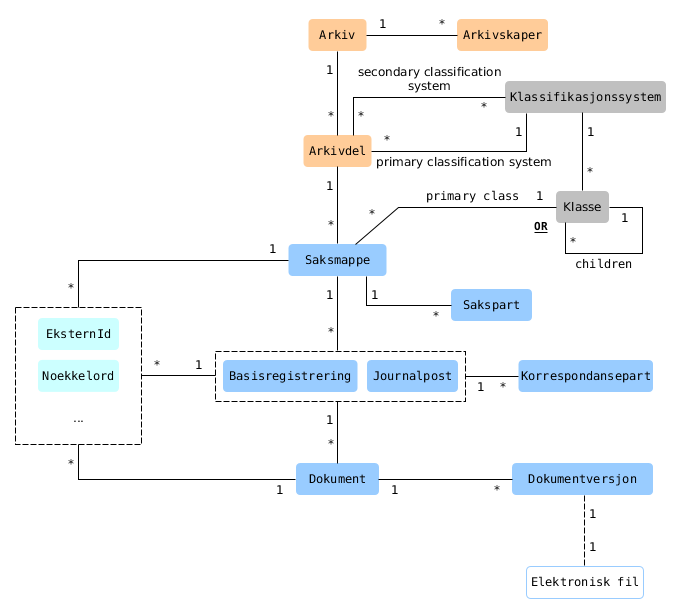
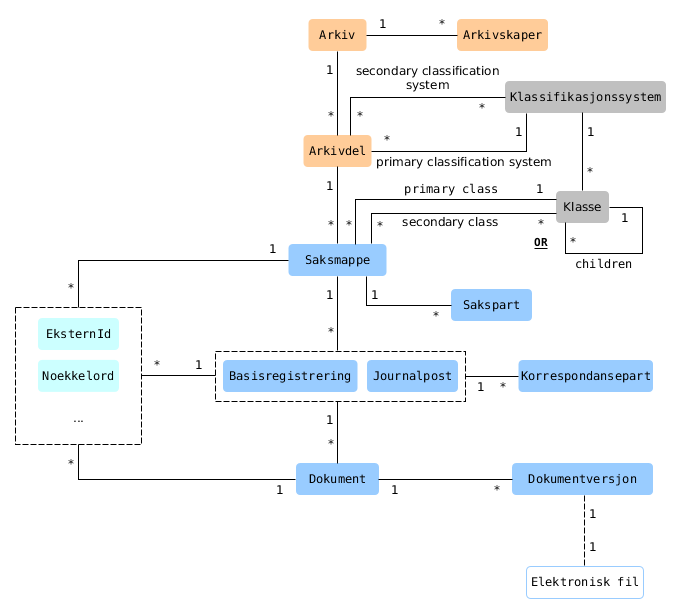
Add support for secondary classes
Rename:
- references to Klasse in Mappe, Saksmappe, Basisregistrering and
Journalpost
- references to Mappe/Saksmappe and Basisregistrering/Journalpost
in Klasse
so that the references denote primary classes (Klasse)

Add references to support secondary classes (Klasse).

Update archive model diagrams.

Changed region(s): [[0.4927, 0.2785, 0.8006, 0.4023], [0.5235, 0.0928, 0.739, 0.1547]]

diff --git a/src/02 - Object types.md b/src/02 - Object types.md
@@ -125,28 +125,30 @@ The following notation is used in the tables below:
 
 ### Klasse
 
-| ID   | Type   | Field                    | Not null | Has default | Code list |  | Save | View | Query | Sort | Link / Unlink | Comment 1                                                                                                                                 | Comment 2                                                                   |
-|:-----|:-------|:-------------------------|:--------:|:-----------:|:---------:|:-|:----:|:----:|:-----:|:----:|:-------------:|:------------------------------------------------------------------------------------------------------------------------------------------|:----------------------------------------------------------------------------|
-|      | string | id                       |    x     |      x      |           |  |  sm  |  x   |   x   |  x   |               |                                                                                                                                           |                                                                             |
-|      | string | version                  |    x     |      x      |           |  |  sm  |  x   |   x   |      |               |                                                                                                                                           |                                                                             |
-|      |        |                          |          |             |           |  |      |      |       |      |               |                                                                                                                                           |                                                                             |
-| M001 | string | uuid                     |    x     |      x      |           |  |  cw  |  x   |   x   |      |               |                                                                                                                                           |                                                                             |
-| M600 | date   | opprettetDato            |    x     |      x      |           |  |  cw  |  x   |   x   |  x   |               |                                                                                                                                           |                                                                             |
-| M601 | string | opprettetAv              |    x     |      x      |           |  |  cw  |  x   |   x   |  x   |               |                                                                                                                                           |                                                                             |
-| M601 | string | opprettetAvBrukerIdent   |    x     |      x      |           |  |  cw  |  x   |   x   |  x   |               |                                                                                                                                           |                                                                             |
-| M602 | date   | avsluttetDato            |          |             |           |  |  cw  |  x   |   x   |  x   |               |                                                                                                                                           |                                                                             |
-| M603 | string | avsluttetAv              |          |             |           |  |  cw  |  x   |   x   |  x   |               |                                                                                                                                           |                                                                             |
-| M603 | string | avsluttetAvBrukerIdent   |          |             |           |  |  cw  |  x   |   x   |  x   |               |                                                                                                                                           |                                                                             |
-| M002 | string | klasseIdent              |    x     |             |           |  |  x   |  x   |   x   |  x   |               |                                                                                                                                           |                                                                             |
-| M020 | string | tittel                   |    x     |             |           |  |  x   |  x   |   x   |  x   |               |                                                                                                                                           |                                                                             |
-| M021 | string | beskrivelse              |          |             |           |  |  x   |  x   |   x   |  x   |               |                                                                                                                                           |                                                                             |
-| M500 | string | skjerming                |          |             |     x     |  |  x   |  x   |   x   |  x   |               | <p>&bull; code list in Documaster</p>                                                                                                     |                                                                             |
-|      |        |                          |          |             |           |  |      |      |       |      |               |                                                                                                                                           |                                                                             |
-|      | ref    | refKlassifikasjonssystem |    x     |             |           |  |      |  x   |   x   |      |       x       |                                                                                                                                           |                                                                             |
-|      | ref    | refForelderKlasse        |          |             |           |  |      |  x   |   x   |      |       x       |                                                                                                                                           |                                                                             |
-|      | ref    | refBarnKlasse            |          |             |           |  |      |      |   x   |      |       x       |                                                                                                                                           |                                                                             |
-|      | ref    | refMappe                 |          |             |           |  |      |      |   x   |      |       x       | <p>&bull; references **Mappe** or **Saksmappe**</p> <p>&bull; may not be supported by all systems or partially supported</p>              | <p>&bull; **refBarnKlasse** cannot be set if **refMappe** is set</p>        |
-|      | ref    | refRegistrering          |          |             |           |  |      |      |   x   |      |       x       | <p>&bull; references **Basisregistrering** or **Journalpost**</p><p>&bull; may not be supported by all systems or partially supported</p> | <p>&bull; **refBarnKlasse** cannot be set if **refRegistrering** is set</p> |
+| ID   | Type   | Field                       | Not null | Has default | Code list |  | Save | View | Query | Sort | Link / Unlink | Comment 1                                                                                                                                                           | Comment 2                                                                                 |
+|:-----|:-------|:----------------------------|:--------:|:-----------:|:---------:|:-|:----:|:----:|:-----:|:----:|:-------------:|:--------------------------------------------------------------------------------------------------------------------------------------------------------------------|:------------------------------------------------------------------------------------------|
+|      | string | id                          |    x     |      x      |           |  |  sm  |  x   |   x   |  x   |               |                                                                                                                                                                     |                                                                                           |
+|      | string | version                     |    x     |      x      |           |  |  sm  |  x   |   x   |      |               |                                                                                                                                                                     |                                                                                           |
+|      |        |                             |          |             |           |  |      |      |       |      |               |                                                                                                                                                                     |                                                                                           |
+| M001 | string | uuid                        |    x     |      x      |           |  |  cw  |  x   |   x   |      |               |                                                                                                                                                                     |                                                                                           |
+| M600 | date   | opprettetDato               |    x     |      x      |           |  |  cw  |  x   |   x   |  x   |               |                                                                                                                                                                     |                                                                                           |
+| M601 | string | opprettetAv                 |    x     |      x      |           |  |  cw  |  x   |   x   |  x   |               |                                                                                                                                                                     |                                                                                           |
+| M601 | string | opprettetAvBrukerIdent      |    x     |      x      |           |  |  cw  |  x   |   x   |  x   |               |                                                                                                                                                                     |                                                                                           |
+| M602 | date   | avsluttetDato               |          |             |           |  |  cw  |  x   |   x   |  x   |               |                                                                                                                                                                     |                                                                                           |
+| M603 | string | avsluttetAv                 |          |             |           |  |  cw  |  x   |   x   |  x   |               |                                                                                                                                                                     |                                                                                           |
+| M603 | string | avsluttetAvBrukerIdent      |          |             |           |  |  cw  |  x   |   x   |  x   |               |                                                                                                                                                                     |                                                                                           |
+| M002 | string | klasseIdent                 |    x     |             |           |  |  x   |  x   |   x   |  x   |               |                                                                                                                                                                     |                                                                                           |
+| M020 | string | tittel                      |    x     |             |           |  |  x   |  x   |   x   |  x   |               |                                                                                                                                                                     |                                                                                           |
+| M021 | string | beskrivelse                 |          |             |           |  |  x   |  x   |   x   |  x   |               |                                                                                                                                                                     |                                                                                           |
+| M500 | string | skjerming                   |          |             |     x     |  |  x   |  x   |   x   |  x   |               | <p>&bull; code list in Documaster</p>                                                                                                                               |                                                                                           |
+|      |        |                             |          |             |           |  |      |      |       |      |               |                                                                                                                                                                     |                                                                                           |
+|      | ref    | refKlassifikasjonssystem    |    x     |             |           |  |      |  x   |   x   |      |       x       |                                                                                                                                                                     |                                                                                           |
+|      | ref    | refForelderKlasse           |          |             |           |  |      |  x   |   x   |      |       x       |                                                                                                                                                                     |                                                                                           |
+|      | ref    | refBarnKlasse               |          |             |           |  |      |      |   x   |      |       x       |                                                                                                                                                                     |                                                                                           |
+|      | ref    | refMappeSomPrimaer          |          |             |           |  |      |      |   x   |      |       x       | <p>&bull; references **Mappe** or **Saksmappe** as a primary **Klasse**</p> <p>&bull; may not be supported by all systems or partially supported</p>                | <p>&bull; **refBarnKlasse** cannot be set if **refMappeSomPrimaer** is set</p>            |
+|      | ref    | refMappeSomSekundaer        |          |             |           |  |      |      |   x   |      |       x       | <p>&bull; references **Mappe** or **Saksmappe** as a secondary **Klasse**</p> <p>&bull; may not be supported by all systems or partially supported</p>              | <p>&bull; **refBarnKlasse** cannot be set if **refMappeSomSekundaer** is set</p>          |
+|      | ref    | refRegistreringSomPrimaer   |          |             |           |  |      |      |   x   |      |       x       | <p>&bull; references **Basisregistrering** or **Journalpost** as a primary **Klasse**</p><p>&bull; may not be supported by all systems or partially supported</p>   | <p>&bull; **refBarnKlasse** cannot be set if **refRegistreringSomPrimaer** is set</p>     |
+|      | ref    | refRegistreringSomSekundaer |          |             |           |  |      |      |   x   |      |       x       | <p>&bull; references **Basisregistrering** or **Journalpost** as a secondary **Klasse**</p><p>&bull; may not be supported by all systems or partially supported</p> | <p>&bull; **refBarnKlasse** cannot be set if **refRegistreringSomSekundaer** is set</p> | |
 
 ## Folders
 
@@ -178,7 +180,8 @@ The following notation is used in the tables below:
 |      | ref             | refForelderMappe              |    c     |             |           |  |      |  x   |   x   |      |       x       | <p>&bull; references a parent **Mappe**</p>                                                                          | <p>&bull; exactly one of **refArkivdel** and **refForelderMappe** must be set</p> |
 |      | ref             | refBarnMappe                  |          |             |           |  |      |      |   x   |      |       x       | <p>&bull; references children **Mappe**</p>                                                                          |                                                                                   |
 |      | ref             | refRegistrering               |          |             |           |  |      |      |   x   |      |       x       | <p>&bull; references **Basisregistrering** or **Journalpost**</p><p>&bull; may be partially supported by systems</p> | <p>&bull; references to **Journalpost** not currently supported in Documaster</p> |
-|      | ref             | refKlasse                     |          |             |           |  |      |  x   |   x   |      |       x       | <p>&bull; references a **Klasse** from the primary **Klassifikasjonssystem** of the **Arkivdel**</p>                 |                                                                                   |
+|      | ref             | refPrimaerKlasse              |          |             |           |  |      |  x   |   x   |      |       x       | <p>&bull; references a **Klasse** from the primary **Klassifikasjonssystem** of the **Arkivdel**</p>                 |                                                                                   |
+|      | ref             | refSekundaerKlasse            |          |             |           |  |      |      |   x   |      |       x       | <p>&bull; references a **Klasse** from any **Klassifikasjonssystem**</p>                                             |                                                                                   |
 |      | ref             | refEksternId                  |          |             |           |  |      |      |   x   |      |       x       | <p>&bull; *unlink* not supported in Documaster</p>                                                                   | &nbsp;                                                                            |
 |      | ref             | refNoekkelord                 |          |             |           |  |      |      |   x   |      |       x       | <p>&bull; *unlink* not supported in Documaster</p>                                                                   | &nbsp;                                                                            |
 
@@ -216,7 +219,8 @@ The following notation is used in the tables below:
 |      | ref             | refArkivdel                   |    x     |             |           |  |      |  x   |   x   |      |       x       |                                                                                                                      |           |
 |      | ref             | refRegistrering               |          |             |           |  |      |      |   x   |      |       x       | <p>&bull; references **Basisregistrering** or **Journalpost**</p><p>&bull; may be partially supported by systems</p> |           |
 |      | ref             | refSakspart                   |          |             |           |  |      |      |   x   |      |       x       | <p>&bull; *unlink* not supported in Documaster</p>                                                                   |           |
-|      | ref             | refKlasse                     |    x     |             |           |  |      |  x   |   x   |      |       x       | <p>&bull; references a **Klasse** from the primary **Klassifikasjonssystem** of the **Arkivdel**</p>                 |           |
+|      | ref             | refPrimaerKlasse              |    x     |             |           |  |      |  x   |   x   |      |       x       | <p>&bull; references a **Klasse** from the primary **Klassifikasjonssystem** of the **Arkivdel**</p>                 |           |
+|      | ref             | refSekundaerKlasse            |          |             |           |  |      |      |   x   |      |       x       | <p>&bull; references a **Klasse** from any **Klassifikasjonssystem**</p>                                             |           |
 |      | ref             | refEksternId                  |          |             |           |  |      |      |   x   |      |       x       | <p>&bull; *unlink* not supported in Documaster</p>                                                                   | &nbsp;    |
 |      | ref             | refNoekkelord                 |          |             |           |  |      |      |   x   |      |       x       | <p>&bull; *unlink* not supported in Documaster</p>                                                                   | &nbsp;    |
 
@@ -279,7 +283,8 @@ The following notation is used in the tables below:
 |      | ref             | refMappe                      |    c     |             |           |  |      |  x   |   x   |      |       x       | <p>&bull; references **Mappe** or **Saksmappe**</p><p>&bull; may not be supported by all systems or partially supported</p> | <p>&bull; exactly one of **refArkivdel** and **refMappe** must be set</p>                                                                               |
 |      | ref             | refKorrespondansepart         |          |             |           |  |      |      |   x   |      |       x       | <p>&bull; *unlink* not supported in Documaster</p>                                                                          |                                                                                                                                                         |
 |      | ref             | refDokument                   |          |             |           |  |      |      |   x   |      |       x       |                                                                                                                             |                                                                                                                                                         |
-|      | ref             | refKlasse                     |          |             |           |  |      |  x   |   x   |      |       x       | <p>&bull; references a **Klasse** from the primary **Klassifikasjonssystem** of the **Arkivdel**</p>                        |                                                                                                                                                         |
+|      | ref             | refPrimaerKlasse              |          |             |           |  |      |  x   |   x   |      |       x       | <p>&bull; references a **Klasse** from the primary **Klassifikasjonssystem** of the **Arkivdel**</p>                        |                                                                                                                                                         |
+|      | ref             | refSekundaerKlasse            |          |             |           |  |      |      |   x   |      |       x       | <p>&bull; references a **Klasse** from any **Klassifikasjonssystem**</p>                                                    |                                                                                                                                                         |
 |      | ref             | refEksternId                  |          |             |           |  |      |      |   x   |      |       x       | <p>&bull; *unlink* not supported in Documaster</p>                                                                          | &nbsp;                                                                                                                                                  |
 |      | ref             | refNoekkelord                 |          |             |           |  |      |      |   x   |      |       x       | <p>&bull; *unlink* not supported in Documaster</p>                                                                          | &nbsp;                                                                                                                                                  |
 
@@ -322,7 +327,8 @@ The following notation is used in the tables below:
 |      | ref             | refArkivdel                   |    c     |             |           |  |      |  x   |   x   |      |       x       | <p>&bull; references **Arkivdel**</p><p>&bull; may not be supported by all systems or partially supported</p>               | <p>&bull; exactly one of **refMappe** and **refArkivdel** is required</p><p>&bull; reference to **Arkivdel** not currently supported in Documaster</p> |
 |      | ref             | refKorrespondansepart         |    x     |             |           |  |      |      |   x   |      |       x       | <p>&bull; *unlink* not supported in Documaster</p>                                                                          |                                                                                                                                                        |
 |      | ref             | refDokument                   |          |             |           |  |      |      |   x   |      |       x       |                                                                                                                             |                                                                                                                                                        |
-|      | ref             | refKlasse                     |          |             |           |  |      |  x   |   x   |      |       x       | <p>&bull; references a **Klasse** from the primary **Klassifikasjonssystem** of the **Arkivdel**</p>                        |                                                                                                                                                        |
+|      | ref             | refPrimaerKlasse              |          |             |           |  |      |  x   |   x   |      |       x       | <p>&bull; references a **Klasse** from the primary **Klassifikasjonssystem** of the **Arkivdel**</p>                        |                                                                                                                                                        |
+|      | ref             | refSekundaerKlasse            |          |             |           |  |      |      |   x   |      |       x       | <p>&bull; references a **Klasse** from any **Klassifikasjonssystem**</p>                                                    |                                                                                                                                                        |
 |      | ref             | refEksternId                  |          |             |           |  |      |      |   x   |      |       x       | <p>&bull; *unlink* not supported in Documaster</p>                                                                          | &nbsp;                                                                                                                                                 |
 |      | ref             | refNoekkelord                 |          |             |           |  |      |      |   x   |      |       x       | <p>&bull; *unlink* not supported in Documaster</p>                                                                          | &nbsp;                                                                                                                                                 |
 
